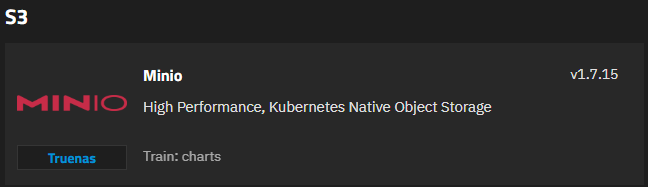
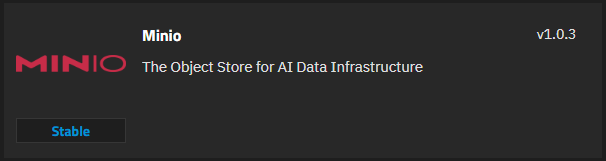
PD-1300 Update MinIO Widget Image
This commit updates the screenshot of the MinIO app widget

diff --git a/content/SCALE/SCALETutorials/Apps/ChartApps/MinIOApp/_index.md b/content/SCALE/SCALETutorials/Apps/ChartApps/MinIOApp/_index.md
@@ -1,6 +1,6 @@
 ---
 title: "MinIO"
-description: "Tutorials for installing and using the MinIO charts application available in the stable train of TrueNAS SCALE."
+description: "Tutorials for installing and using the MinIO charts application available in the stable train in TrueNAS SCALE."
 geekdocCollapseSection: true
 weight:
 aliases: 
